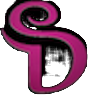
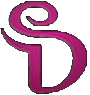
added light mode

diff --git a/assets/css/main.css b/assets/css/main.css
@@ -45,6 +45,7 @@ p {
 body {
   background: #0a0c0a;
   font-family: "Ubuntu", sans-serif;
+  transition: background 0.4s;
 }
 
 * {
@@ -179,7 +180,7 @@ nav ul li a span {
   display: none;
 }
 nav ul li a i {
-  font-size: 18px;
+  font-size: 21px;
   color: #DAD2CD;
   transition: all 0.4s;
 }
@@ -200,7 +201,6 @@ nav ul li > span {
   display: flex;
   align-items: flex-end;
   padding-bottom: 62px;
-  padding-left: 35px;
 }
 .toggle-mode .outer {
   width: 24px;
@@ -398,7 +398,7 @@ nav ul li > span {
   content: "";
   width: 100%;
   height: 100%;
-  background: #f04fbb;
+  background: #6a6b74;
   left: 0;
   top: 0;
   border-radius: 8px;
@@ -411,7 +411,7 @@ nav ul li > span {
   content: "";
   width: 100%;
   height: 100%;
-  background: #0c0108;
+  background: black;
   left: 0;
   top: 0;
   border-radius: 8px;
@@ -591,19 +591,19 @@ nav ul li > span {
 @media (max-width: 767px) {
   #sidebar {
     background: black;
-    opacity: 0.8;
     padding-right: 60px;
     transform: translateX(-100%);
     transition: all 0.4s;
   }
   #sidebar.open {
     transform: translateX(0);
+    z-index: 2;
   }
   #sidebar .toggle-sidebar {
     display: flex;
   }
   #sidebar .logo {
-    text-align: left;
+    text-align: center;
   }
   #sidebar nav ul li a {
     display: flex;
@@ -628,6 +628,7 @@ nav ul li > span {
   }
   main {
     padding-left: 0;
+    padding-top: 50px;
   }
   > section {
     padding-right: 32px;
@@ -661,5 +662,48 @@ nav ul li > span {
   #contact .container .info .item i {
     margin-right: 0;
     margin-bottom: 8px;
+  }
+}
+html[theme=light] body {
+  background: #fff;
+}
+html[theme=light] .btn-custom-blue, html[theme=light] .btn-custom-dark {
+  color: rgb(0, 255, 255);
+  background-color: #83848e;
+}
+html[theme=light] * {
+  color: #070D0A;
+}
+html[theme=light] #sidebar .logo img {
+  filter: invert(1);
+}
+html[theme=light] #sidebar nav ul li a:hover i {
+  color: rgb(0, 255, 255);
+}
+html[theme=light] #about_me h2 {
+  color: #070D0A;
+  background-color: white;
+}
+html[theme=light] #my_work h2 {
+  color: white;
+}
+html[theme=light] #contact .info .item .text a {
+  color: #070D0A;
+}
+html[theme=light] #about_me .design-skills .items .item {
+  background: #83848e;
+}
+html[theme=light] #about_me .design-skills .items .item:after {
+  background: #b8b9bf;
+}
+@media (max-width: 800px) {
+  html[theme=light] #sidebar {
+    background: white;
+  }
+  html[theme=light] #sidebar .toggle-sidebar {
+    background: #fff;
+  }
+  html[theme=light] .la-bars {
+    color: black;
   }
 }/*# sourceMappingURL=main.css.map */

diff --git a/assets/css/scss/_light.scss b/assets/css/scss/_light.scss
@@ -1,0 +1,101 @@
+
+html[theme="light"] {
+    body {
+        background: #fff;
+        
+    }
+
+    .btn-custom-blue {
+        color: rgb(0, 255, 255);
+        background-color: $gray_light//#030f09;
+    }
+
+    * {
+        color: #070D0A;//$paragraph_light;
+        
+    }
+
+    #sidebar {
+       //background: rgb(248, 245, 245);
+
+        .logo img {
+            filter: invert(1); //can change color also
+            
+        }
+        nav ul li {
+            a {
+                &:hover i {
+                    color: rgb(0, 255, 255);
+                }
+            }
+        }
+
+    }
+
+    #about_me {
+        h2 {
+            color: #070D0A;
+            background-color: white//#F5F9F7;
+        }
+    }    
+    
+
+
+    
+    #my_work {
+        h2 {
+            
+            color: white//#F5F9F7;
+        }
+    } 
+    
+    #contact {
+        .info {
+            .item {
+                .text {
+                    a {
+                        color: #070D0A;
+                    }
+                }
+            }
+        }
+    }
+
+    #about_me {
+        .design-skills {
+            .items {
+    
+                .item {
+                    background: $gray_light;
+
+                    &:after {
+                        background: lighten($color: $gray_light, $amount: 20%);
+                    }
+
+                }
+
+            }
+            
+    
+        }
+    }
+
+
+    @media (max-width: 800px) {
+        #sidebar {
+            background: white;
+
+            .toggle-sidebar {
+                background: #fff;
+            }
+        }
+        .la-bars {
+            color: black;
+        }
+    }
+
+
+
+
+
+}

diff --git a/assets/css/scss/_responsive.scss b/assets/css/scss/_responsive.scss
@@ -64,7 +64,8 @@
 @media (max-width: 767px) {
     #sidebar {
         background: darken($secondary, 30%);
-        opacity: 0.8;// normal no opacity change back if not liked.
+        
+        //opacity: 0.8;// normal no opacity change back if not liked.
         padding-right: 60px;
         transform: translateX(-100%);// to hide on start
         transition: all 0.4s;
@@ -72,7 +73,7 @@
 
         &.open {// obviosly when open/clicked
             transform: translateX(0);
-            
+            z-index: 2;//hide things behind the menu
         }
 
         .toggle-sidebar {
@@ -80,7 +81,7 @@
         }
 
         .logo {
-            text-align: left;
+            text-align: center;
         }
         nav ul li {
             a {
@@ -113,7 +114,7 @@
 
     main {
         padding-left: 0;
-        //padding-top: 50px;//temp hide, will remove later
+        padding-top: 50px;//temp hide, will remove later
     }
 
     > section {
@@ -164,6 +165,7 @@
                     text-align: center;
                     align-items: center;
                     padding-right: 110px;
+                    
 
                     i {
                         margin-right: 0;

diff --git a/assets/css/scss/_about.scss b/assets/css/scss/_about.scss
@@ -138,7 +138,7 @@
                         content: "";
                         width: 100%;
                         height: 100%;
-                        background: darken($pink, 10%);
+                        background: darken($gray_light, 10%);
                         left: 0;
                         top: 0;
                         border-radius: 8px;
@@ -152,7 +152,7 @@
                         content: "";
                         width: 100%;
                         height: 100%;
-                        background: darken($pink, 70%);
+                        background: darken($secondary, 70%);
                         left: 0;
                         top: 0;
                         border-radius: 8px;

diff --git a/index.html b/index.html
@@ -22,7 +22,7 @@
         <i class="las la-bars"></i>
       </div>
       <!---<div class="logo"><img src="assets/images/sd_3952.png">--->
-      <div class="logo"><img src="assets/images/sd_3952.png" alt="logo" /></div>
+      <div class="logo"><img src="assets/images/logos/sd_3952 bigger white.png" alt="logo" /></div>
       <nav>
         <ul>
           <li>
@@ -64,7 +64,7 @@
         </ul>
       </nav>
       <div class="toggle-mode">
-        <div class="outer" conclick="toggleMode()">
+        <div class="outer" onclick="toggleMode()">
           <div class="inner"><!--<button>toggle</button>--></div>
         </div>
       </div>

diff --git a/assets/js/script.js b/assets/js/script.js
@@ -70,13 +70,13 @@ window.addEventListener('hashchange', function() {
 
 
 function toggleMode() {
-    let theme = document.querySelector('html').getAttribute('theme');
+    let htmlElement = document.querySelector('html');
+    let theme = htmlElement.getAttribute('theme');
+    console.log(theme);
 
-    if(theme == "dark") {
-        theme = "light";
+    if (theme === "dark") {
+        htmlElement.setAttribute("theme", "light");
     } else {
-        theme = "dark";
+        htmlElement.setAttribute("theme", "dark");
     }
-
-    document.querySelector('html').setAttribute("theme", theme)
 }

diff --git a/assets/css/scss/_sidebar.scss b/assets/css/scss/_sidebar.scss
@@ -87,7 +87,7 @@ nav {
                 }
 
                 i {
-                    font-size: 18px;
+                    font-size: 21px;
                     color: $secondarygray;
                     transition: all 0.4s;
                 }
@@ -113,7 +113,7 @@ nav {
     display: flex;
     align-items: flex-end;
     padding-bottom: 62px;
-    padding-left: 35px;//temp fix, remove later
+    //padding-left: 35px;//temp fix, remove later
 
     .outer {
         width: 24px;

diff --git a/assets/css/scss/_home.scss b/assets/css/scss/_home.scss
@@ -1,5 +1,9 @@
 
 #home {
+
+    //background: url("/assets/images/Screenshot\ 2024-02-25\ at\ 3.19.38\ PM.png");
+    //background-repeat: no-repeat;
+    //background-position: 40vw -24px;
     .info {
         padding-top: 271px;//251
 

diff --git a/assets/css/scss/_colors.scss b/assets/css/scss/_colors.scss
@@ -7,3 +7,8 @@ $primary: #3a9191;
 $gray: #817E7B;
 $pink: #f47ecd;
 $secondarygray: #DAD2CD;
+
+// colors for light mode or main
+$paragraph_light: #0d0d0d;
+$gray_light: #83848e;
+$secondarygray_light: #f4f4f8;

diff --git a/assets/css/scss/_typography.scss b/assets/css/scss/_typography.scss
@@ -26,6 +26,7 @@ p {
 body {
     background: $dark_bg;
     font-family: 'Ubuntu', sans-serif;
+    transition: background 0.4s;
 }
 
 * {

diff --git a/assets/css/scss/main.scss b/assets/css/scss/main.scss
@@ -16,3 +16,5 @@
 @import "./contact"; 
 
 @import "./responsive";
+
+@import "./light";
